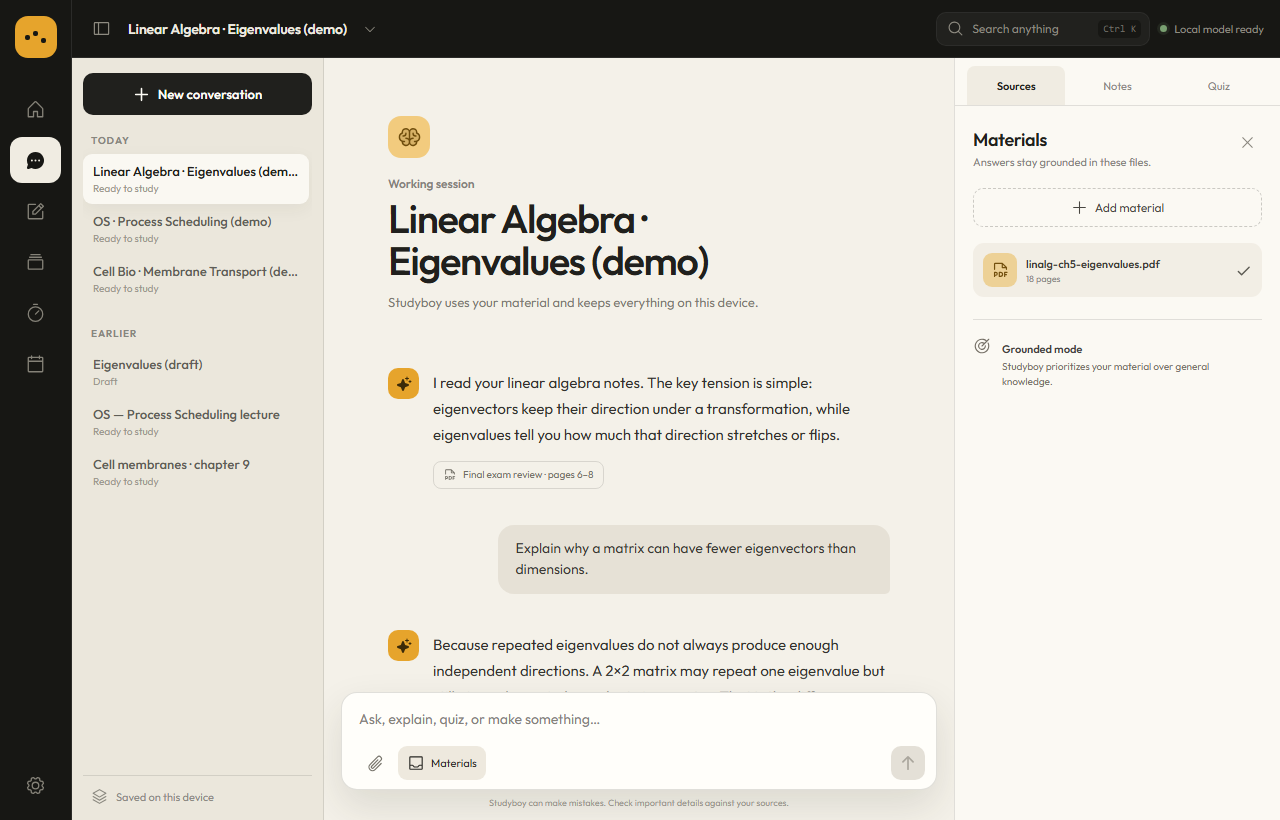
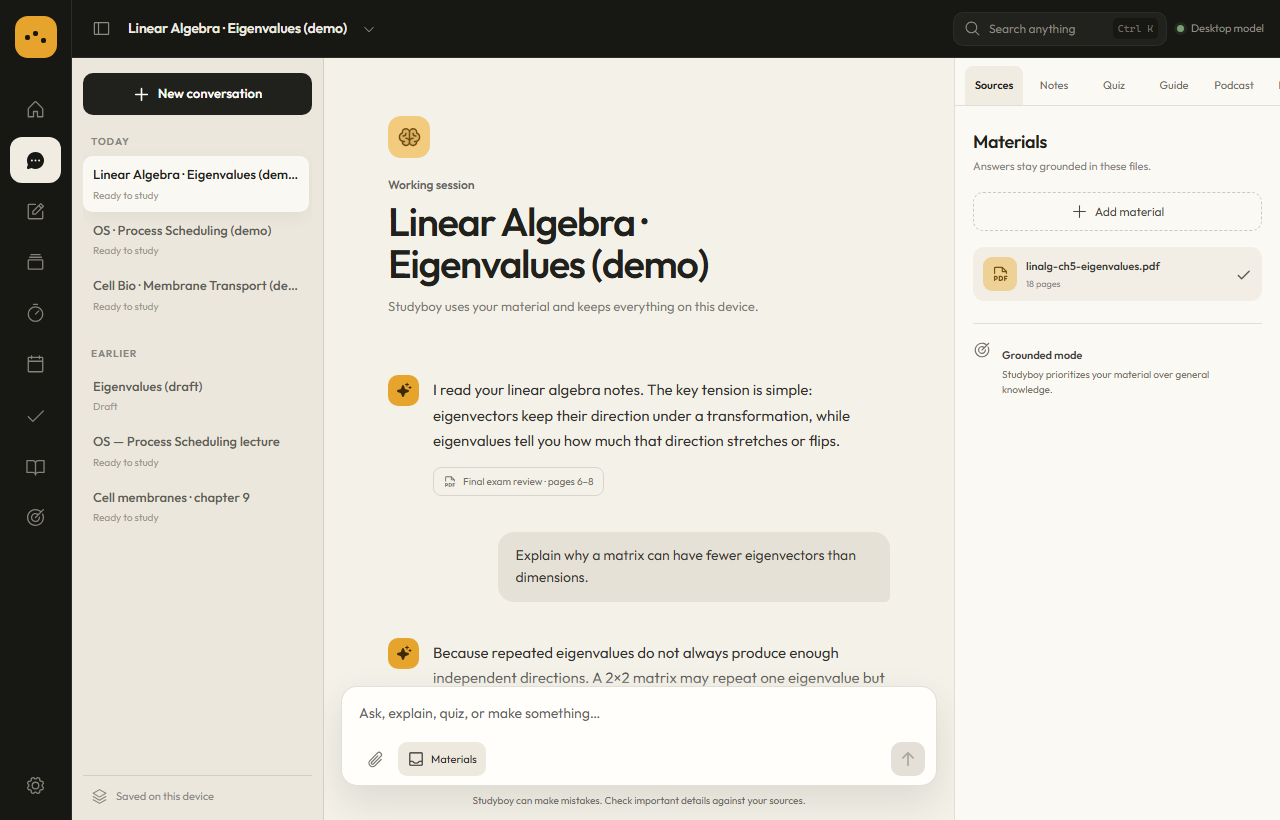
Update desktop and mobile review screenshots

diff --git a/DESIGN.md b/DESIGN.md
@@ -1,0 +1,40 @@
+# Design
+
+<!-- impeccable:design-schema 1 -->
+
+## Visual world
+
+Studyboy is an editorial study canvas inside a graphite desktop shell. The active conversation uses warm paper because it is the place for reading and thinking; supporting productivity modules retain dark, low-glare operating surfaces. Amber behaves like a teacher's mark: it identifies the active learning moment and is never ambient decoration.
+
+## Color
+
+| Token | Value | Use |
+|---|---|---|
+| `--shell` | `#171714` | Navigation and desktop chrome |
+| `--shell-2` | `#20201c` | Dark secondary surfaces |
+| `--paper` | `#f4f1e9` | Conversation canvas |
+| `--paper-deep` | `#ebe7dc` | Conversation index and grouped controls |
+| `--ink` | `#20201d` | Primary paper text |
+| `--muted` | `#6f6e66` | Supporting paper text |
+| `--amber` | `#e6a42c` | Active learning state and primary action |
+| `--amber-strong` | `#c98205` | High-emphasis amber details |
+
+## Typography
+
+Outfit Variable is self-hosted and used throughout the new shell. It replaces the unavailable Satoshi package while preserving the selected wide geometric character. Headings use 540–580 weight and up to `-.04em` tracking. Conversation copy is 14–15px at 1.55–1.72 line-height. Metadata stays at 10px or larger.
+
+## Layout
+
+The desktop operates on a 12-column concept: 72px icon rail, 252px conversation index, fluid reasoning thread, and 326px artifact dock. The thread is always dominant. At 960px the dock folds away; at 800px the index folds away, leaving the thread edge-to-edge beside the persistent icon rail. The composer stays reachable at the bottom while the thread scrolls independently.
+
+## Components
+
+- Navigation uses one Phosphor icon family with consistent 21px sizing.
+- Buttons and inputs use 9–16px corner radii according to scale; only compact status controls use pill geometry.
+- Student messages use a warm-gray speech surface. Studyboy responses live directly on the paper with an amber author mark.
+- The artifact dock contains Sources plus Notes, Quiz, Guide, Podcast, Match, and Map modes.
+- Legacy functional modules are contained on dark surfaces while they are progressively migrated into the new shell.
+
+## Motion and states
+
+The conversation index and artifact dock enter with a single short spatial transition. New messages fade and move 5px; the model reading state uses a three-dot timing sequence. Every motion collapses under `prefers-reduced-motion`. Inputs and buttons expose visible focus rings, disabled states, and pressed feedback. The local-model badge reports actual checking, warming, ready, offline, and desktop-only states.
